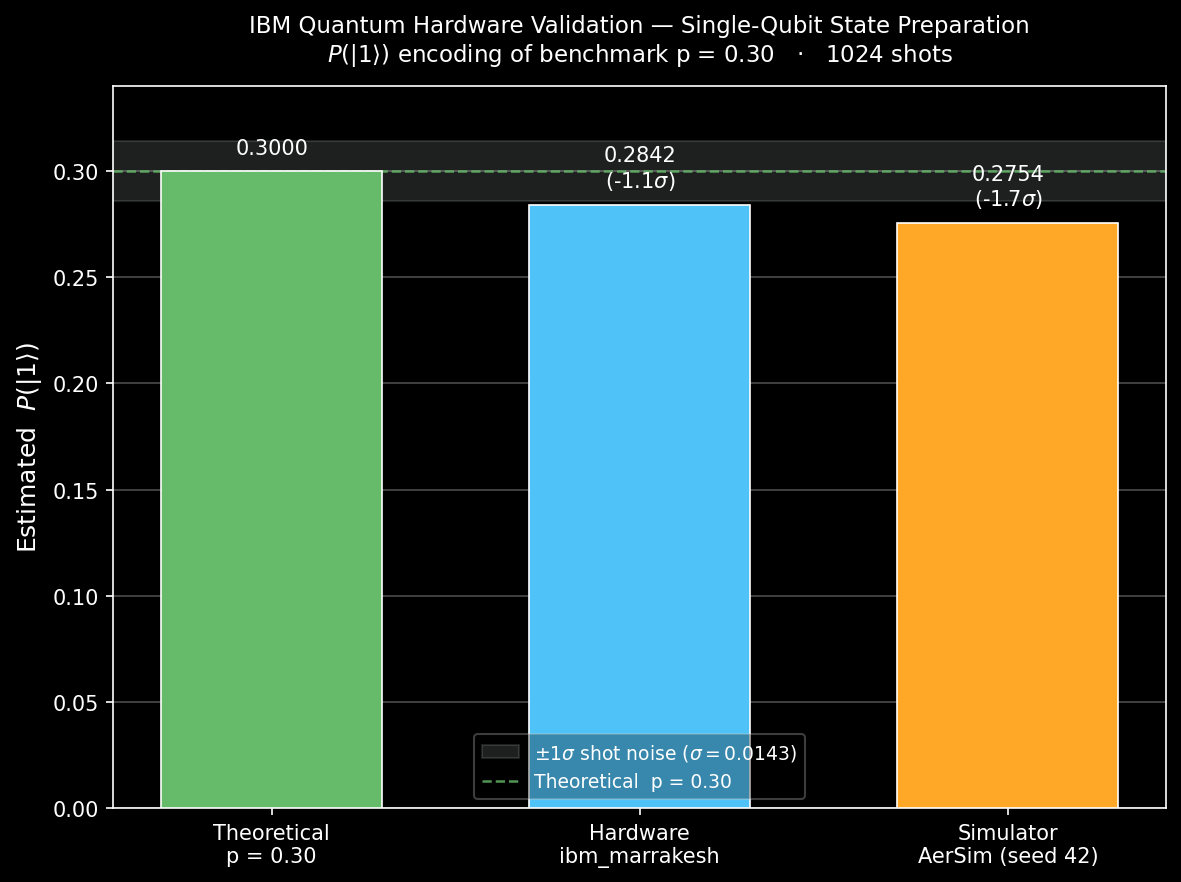
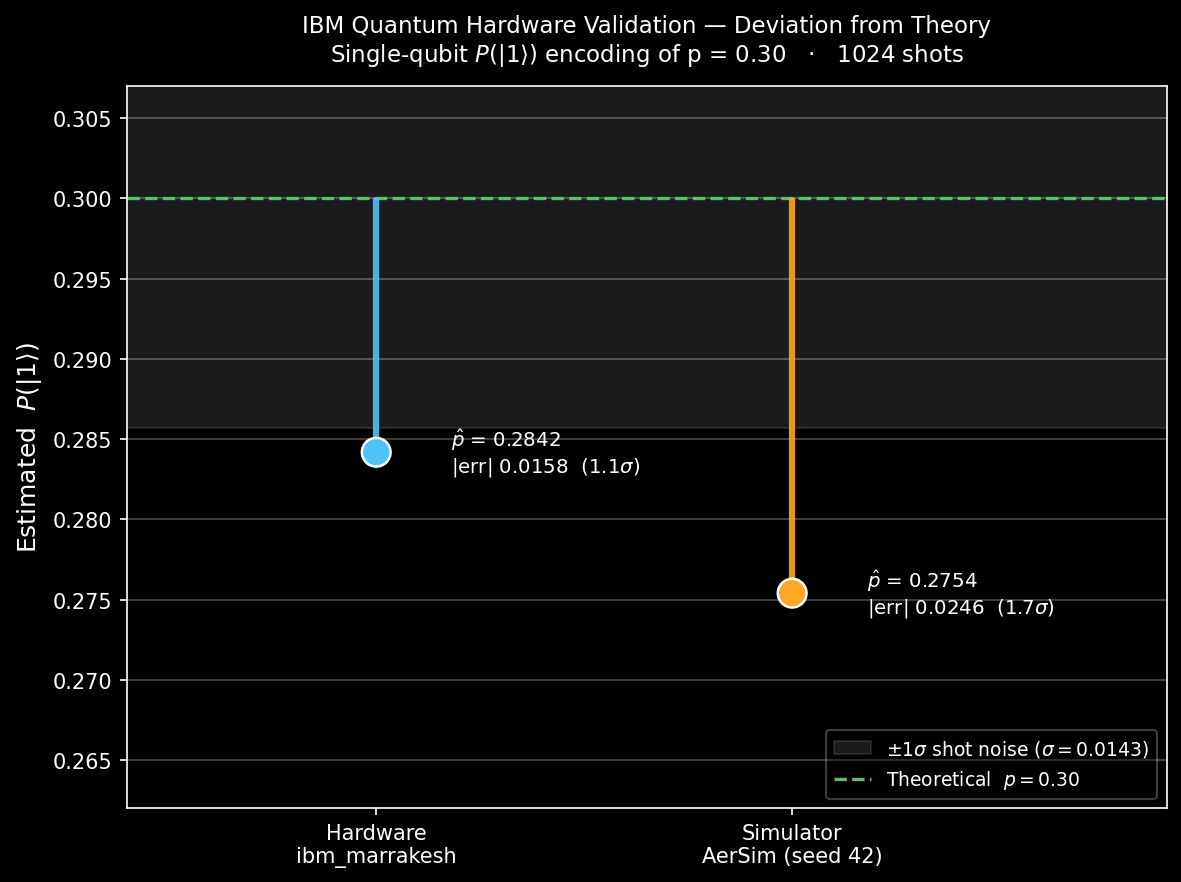
refactor: recast hardware validation figure as deviation-from-theory lollipop (theory anchor + ±1σ band)

diff --git a/src/plot_hardware_validation.py b/src/plot_hardware_validation.py
@@ -1,16 +1,17 @@
 """
 IBM Quantum hardware validation figure — Paper A, Section IV.
 
-Bar chart comparing the single-qubit state-prep estimate of the benchmark
-probability p = 0.30 across three settings:
-    - Theoretical target          (0.3000)
+Deviation-from-theory lollipop: the theoretical target p = 0.30 is drawn as a
+reference line, and each measured single-qubit estimate of P(|1>) hangs from it
+by a stem whose length is the absolute error |p_hat - 0.30|. Two settings:
     - Real hardware  (ibm_marrakesh, read from results JSON)
     - Local simulator (AerSimulator dry run, seed 42)
 
-A horizontal band marks +/-1 sigma of shot noise around the theoretical value
-(sigma = sqrt(p(1-p)/shots) = 0.0143 for p=0.30, shots=1024). Bars keep a zero
-baseline so heights are truthful; per-bar sigma-distance annotations carry the
-precision message.
+A shaded band marks +/-1 sigma of shot noise around theory
+(sigma = sqrt(p(1-p)/shots) = 0.0143 for p=0.30, shots=1024). Hardware's stem
+is the shorter one, i.e. its deviation sits at the shot-noise floor; the
+hardware-vs-simulator gap (~0.6 sigma) is itself within shot noise, so this
+shows "no detectable device error", not that hardware out-performs simulation.
 
 Style matches the rest of the Paper A figures (dark_background, dpi=150).
 """
@@ -30,57 +31,59 @@ OUT_PATH = os.path.join(HERE, "..", "results", "hardware_validation_plot.png")
 with open(JSON_PATH) as f:
     hw = json.load(f)
 
-P_THEORY = hw["theoretical_p"]          # 0.30
-P_HARDWARE = hw["p_hat"]                # 0.2842 (ibm_marrakesh, 1024 shots)
-P_SIM = 0.2754                          # AerSimulator dry run, seed 42
+P_THEORY = hw["theoretical_p"]                 # 0.30
+P_HARDWARE = hw["p_hat"]                        # 0.2842 (ibm_marrakesh)
+P_SIM = 0.2754                                  # AerSimulator dry run, seed 42
 SHOTS = hw["shots"]
-SIGMA = 0.0143                          # sqrt(p(1-p)/shots), p=0.3, shots=1024
+SIGMA = 0.0143                                  # sqrt(p(1-p)/shots), p=0.3, shots=1024
 
-labels = ["Theoretical", "Hardware", "Simulator"]
-sublabels = ["p = 0.30", hw["backend"], "AerSim (seed 42)"]
-values = [P_THEORY, P_HARDWARE, P_SIM]
-colors = ["#66bb6a", "#4fc3f7", "#ffa726"]   # green / blue / orange (Paper A palette)
+points = [
+    # (x, value, color, label, sublabel)
+    (0, P_HARDWARE, "#4fc3f7", "Hardware", hw["backend"]),
+    (1, P_SIM, "#ffa726", "Simulator", "AerSim (seed 42)"),
+]
 
 # ── Figure ──────────────────────────────────────────────────────────────────
 fig, ax = plt.subplots(figsize=(8, 6))
 
-x = np.arange(len(values))
-bars = ax.bar(x, values, width=0.6, color=colors, edgecolor="white",
-              linewidth=0.8, zorder=3)
+# +/-1 sigma shot-noise band around theory + theory reference line
+ax.axhspan(P_THEORY - SIGMA, P_THEORY + SIGMA, color="#cfd8dc", alpha=0.13,
+           zorder=1, label=r"$\pm 1\sigma$ shot noise ($\sigma = 0.0143$)")
+ax.axhline(P_THEORY, color="#66bb6a", linestyle="--", linewidth=1.6, zorder=2,
+           label=r"Theoretical  $p = 0.30$")
 
-# +/-1 sigma shot-noise band around theoretical
-ax.axhspan(P_THEORY - SIGMA, P_THEORY + SIGMA, color="#cfd8dc", alpha=0.15,
-           zorder=1, label=r"$\pm 1\sigma$ shot noise ($\sigma=0.0143$)")
-ax.axhline(P_THEORY, color="#66bb6a", linestyle="--", linewidth=1.2, alpha=0.8,
-           zorder=2, label="Theoretical  p = 0.30")
+# Lollipop stems (length = absolute error) + markers
+for xi, v, color, *_ in points:
+    ax.vlines(xi, v, P_THEORY, color=color, linewidth=3.0, alpha=0.9, zorder=3)
+ax.scatter([p[0] for p in points], [p[1] for p in points],
+           s=190, c=[p[2] for p in points], edgecolor="white", linewidth=1.2,
+           zorder=4)
 
-# Per-bar annotations: value, and sigma-distance for the two estimates
-for xi, v, lab in zip(x, values, labels):
-    if lab == "Theoretical":
-        note = f"{v:.4f}"
-    else:
-        sig_dist = (v - P_THEORY) / SIGMA
-        note = f"{v:.4f}\n({sig_dist:+.1f}$\\sigma$)"
-    ax.text(xi, v + 0.006, note, ha="center", va="bottom",
-            fontsize=10, color="white", zorder=4)
+# Per-point annotation: actual p_hat, absolute error, sigma-multiple
+for xi, v, color, *_ in points:
+    err = abs(v - P_THEORY)
+    ax.annotate(f"$\\hat{{p}}$ = {v:.4f}\n|err| {err:.4f}  ({err / SIGMA:.1f}$\\sigma$)",
+                xy=(xi, v), xytext=(xi + 0.18, v), va="center", ha="left",
+                fontsize=9.5, color="white", zorder=5)
 
-ax.set_xticks(x)
-ax.set_xticklabels([f"{l}\n{s}" for l, s in zip(labels, sublabels)], fontsize=10)
+ax.set_xlim(-0.6, 1.9)
+ax.set_ylim(0.262, 0.307)
+ax.set_xticks([p[0] for p in points])
+ax.set_xticklabels([f"{lbl}\n{sub}" for _, _, _, lbl, sub in points], fontsize=10)
 ax.set_ylabel(r"Estimated  $P(|1\rangle)$", fontsize=12)
-ax.set_ylim(0, 0.34)
 ax.set_title(
-    "IBM Quantum Hardware Validation — Single-Qubit State Preparation\n"
-    f"$P(|1\\rangle)$ encoding of benchmark p = 0.30   ·   {SHOTS} shots",
+    "IBM Quantum Hardware Validation — Deviation from Theory\n"
+    f"Single-qubit $P(|1\\rangle)$ encoding of p = 0.30   ·   {SHOTS} shots",
     fontsize=11, pad=12,
 )
-ax.legend(fontsize=9, framealpha=0.3, loc="lower center")
+ax.legend(fontsize=9, framealpha=0.3, loc="lower right")
 ax.grid(True, axis="y", alpha=0.3)
 
 plt.tight_layout()
 os.makedirs(os.path.dirname(OUT_PATH), exist_ok=True)
 fig.savefig(OUT_PATH, dpi=150, bbox_inches="tight")
 print(f"Saved: {os.path.normpath(OUT_PATH)}")
-print(f"  theoretical = {P_THEORY:.4f}")
-print(f"  hardware    = {P_HARDWARE:.4f}  ({(P_HARDWARE-P_THEORY)/SIGMA:+.2f} sigma)")
-print(f"  simulator   = {P_SIM:.4f}  ({(P_SIM-P_THEORY)/SIGMA:+.2f} sigma)")
+for xi, v, color, lbl, sub in points:
+    err = abs(v - P_THEORY)
+    print(f"  {lbl:<10} p_hat={v:.4f}  |err|={err:.4f}  ({err / SIGMA:.2f} sigma)")
 plt.close(fig)
